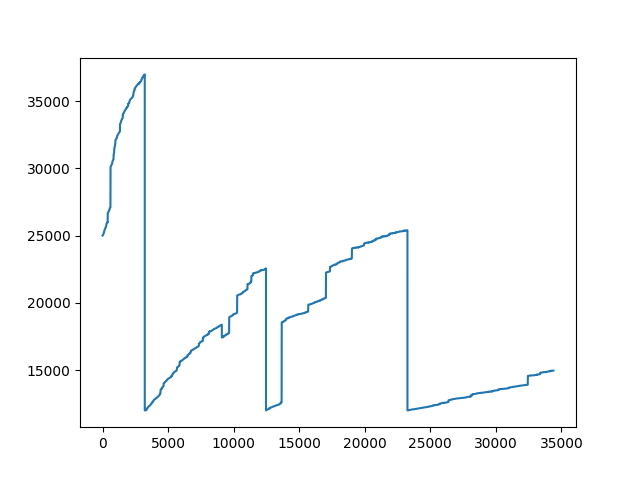
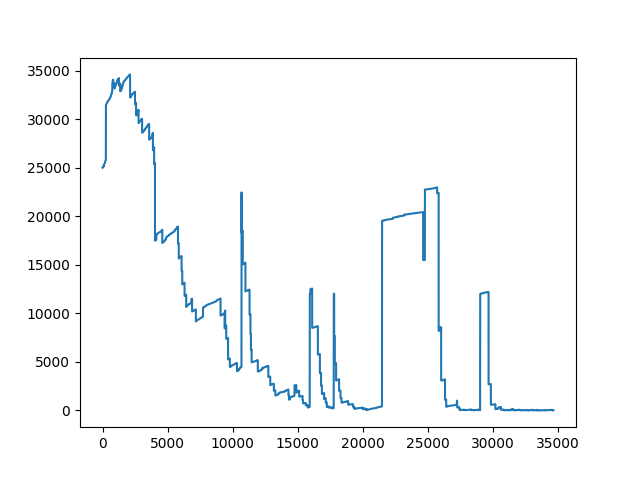
parameter tuning + separation of rules areas on temps plot

diff --git a/models.py b/models.py
@@ -495,33 +495,47 @@ class SimulatedAnnieling:
 
 		if timeLimit is not None:
 			self.setTimeLimit(timeLimit)
-		#temps = tuple()
+		'''
+		temps = tuple()
+		temps_milestones = {"explorative": 0, "complete": 0}
+		'''
 		if rule == "probabilistic": # SA explore also bad moves probabilistically !
 			while self.getProgress() < 1:
 				#ss = perf_counter()
-				for n in self.head.getNeighbours(rule="explorative" if self.getProgress() >= 0.60 else "complete" if self.getProgress() > 0.5 else "explorative"):
+				for n in self.head.getNeighbours(rule="explorative" if self.getProgress() >= 0.6 else "complete" if self.getProgress() >= 0.5 else "explorative"):
 					self.annielingProcess(rate=1+(uniform.rvs()*(self.problem.starting_time/(self.T*uniform.rvs()*perf_counter()))))
 					#print(f"T : {self.T}")
-					#temps += (self.T,)
-					if self.eval_move(n):
+					'''
+					if self.getProgress() > 0.5 and self.getProgress()<=0.6:
+						temps_milestones["complete"] = self.nodes_count 
+					temps += (self.T,)
+					'''
+					if self.eval_move(n):	
 						self.open_nodes.add(n)
 					if n.eval() < self.best.eval():
 						self.save_as_best(n)
 				try:
 					
-					if self.getProgress() >= 0.92 and uniform.rvs() > 1.87-self.getProgress():
+					if self.getProgress() >= 0.91 and uniform.rvs() > 1.87-self.getProgress():
 						self.move_head(self.set_initial_sol(rule="expert"))
 					else:
-						self.move_head(self.best if uniform.rvs() > 1-self.getProgress() else choice(tuple(self.open_nodes)))
+						self.move_head(self.best if uniform.rvs() > 0.9999-self.getProgress() else choice(tuple(self.open_nodes)))
 
 				except IndexError:
 					self.move_head(self.best)
 				finally:
 					self.open_nodes -= {self.head}
-					self.annielingProcess(0.9995 if uniform.rvs() >= 0.80 else 1.0002)
+					'''
+					if self.getProgress() < 0.5:
+						temps_milestones["explorative"] = self.nodes_count
+					self.annielingProcess(1-self.getProgress() if uniform.rvs() >= 0.80 else 1.0005)
+					'''
 				#print(f"explore neighborhood in: {perf_counter()-ss}")
-			#plt.plot(temps)
-			#plt.savefig("graphs\\temperature-"+self.problem.dataset_loc.split('\\')[-1].split(".")[0]+".png")
+			'''
+			plt.plot(temps)
+			plt.savefig("graphs\\temperature-"+self.problem.dataset_loc.split('\\')[-1].split(".")[0]+".png")
+			print(temps_milestones["explorative"], temps_milestones["complete"])
+			'''
 			self.print_answer()
 			self.save_stats(useBin=self.problem.stats_bin is not None)
 			 
